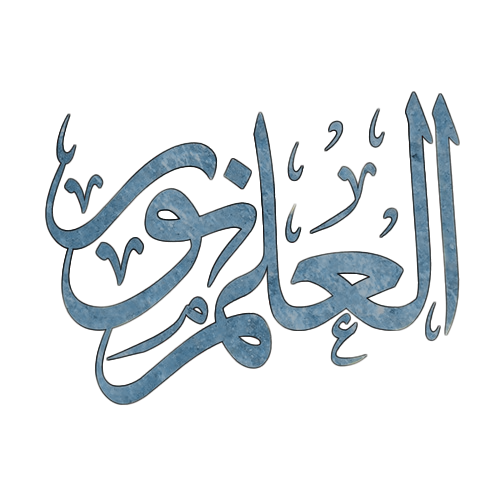
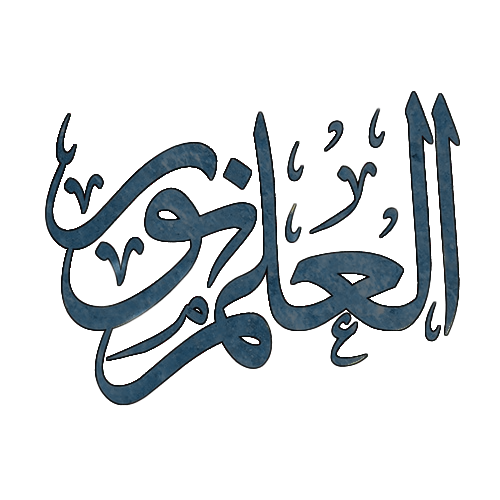
Todays Work Done

Changed region(s): [[0.09, 0.18, 0.93, 0.81], [0.66, 0.24, 0.69, 0.3]]

diff --git a/src/AppNavigator.js b/src/AppNavigator.js
@@ -9,15 +9,15 @@ const Stack = createStackNavigator();
 export default function AppNavigator() {
   return (
     <NavigationContainer>
-      <Stack.Navigator initialRouteName="Form">
-      <Stack.Screen
-        name="Form"
-        component={Form}
-        options={{headerShown: false}}
-      />
+      <Stack.Navigator initialRouteName="First">
       <Stack.Screen
         name="First"
         component={First}
+        options={{headerShown: false}}
+      />
+      <Stack.Screen
+        name="Form"
+        component={Form}
         options={{headerShown: false}}
       />
       <Stack.Screen

diff --git a/src/Screens/First.js b/src/Screens/First.js
@@ -43,7 +43,7 @@ export default function First({navigation}) {
             duration={3000}
             delay={250}
             style={styles.calligraphy}
-            source={require('../Images/calligraphy(1).png')}
+            source={require('../Images/calligraphy.png')}
           />
           <Animatable.Text
             animation="fadeInUp"
